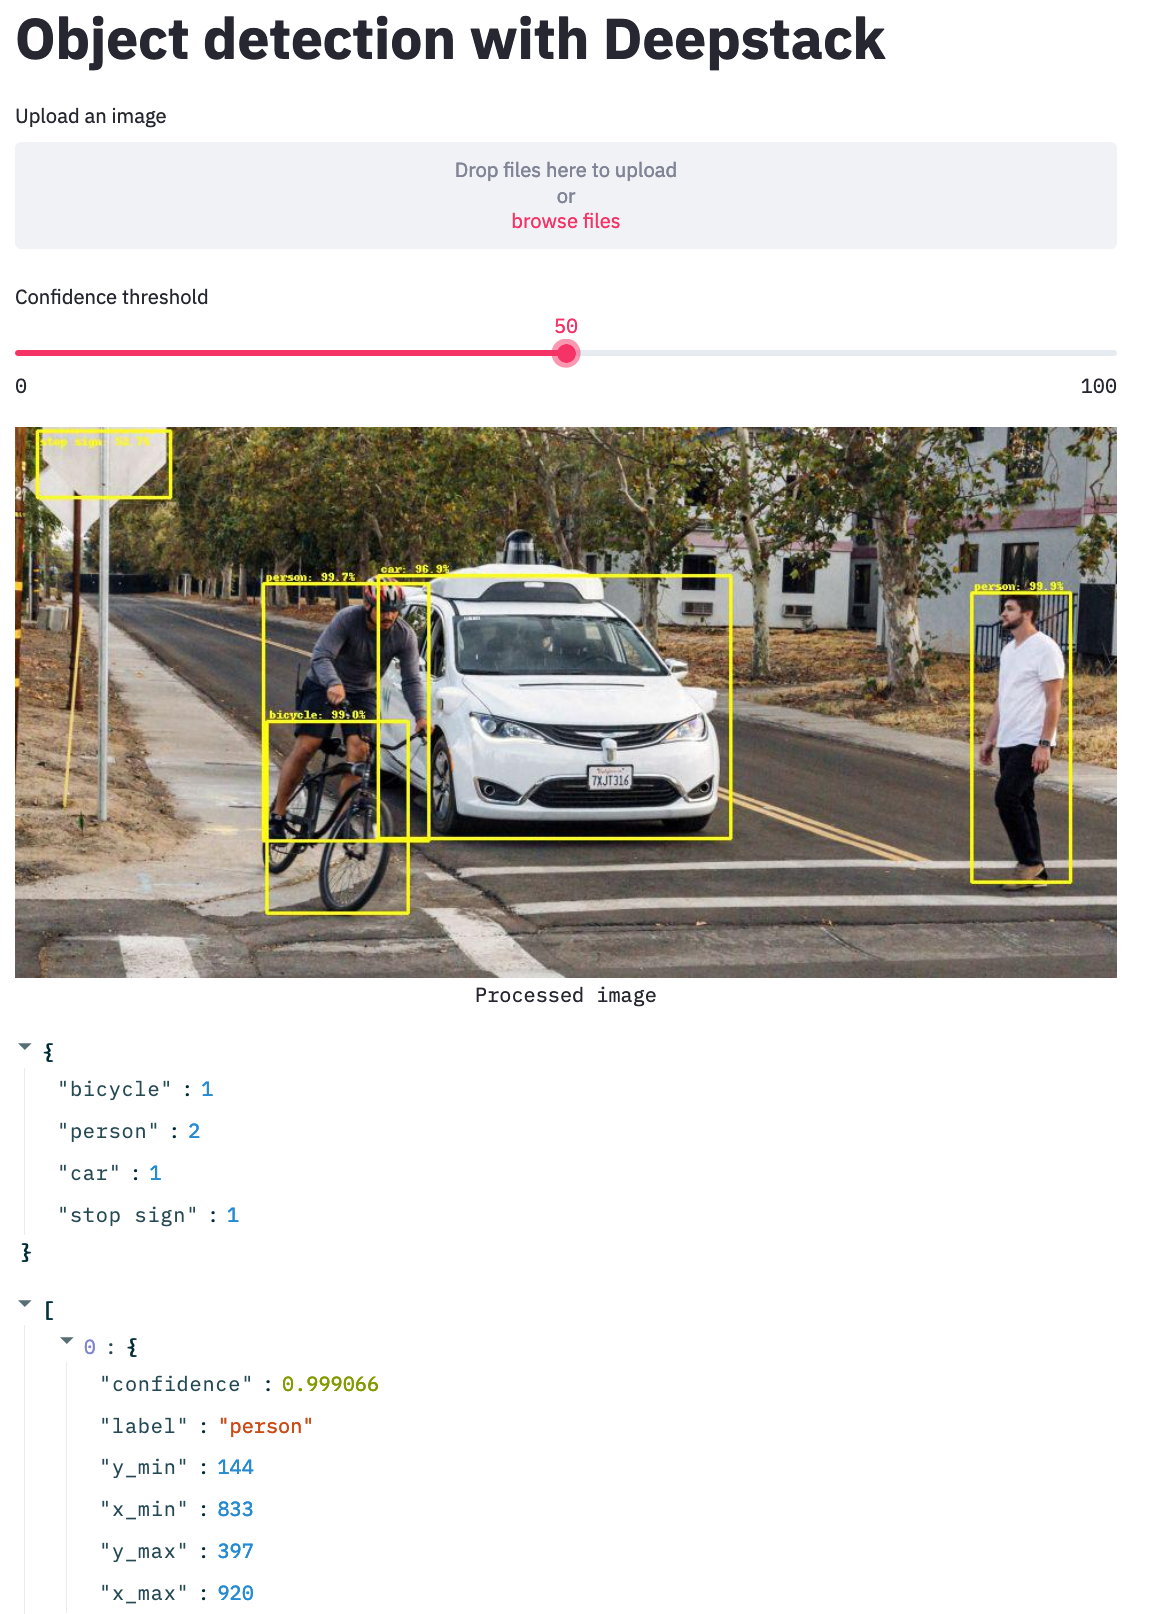
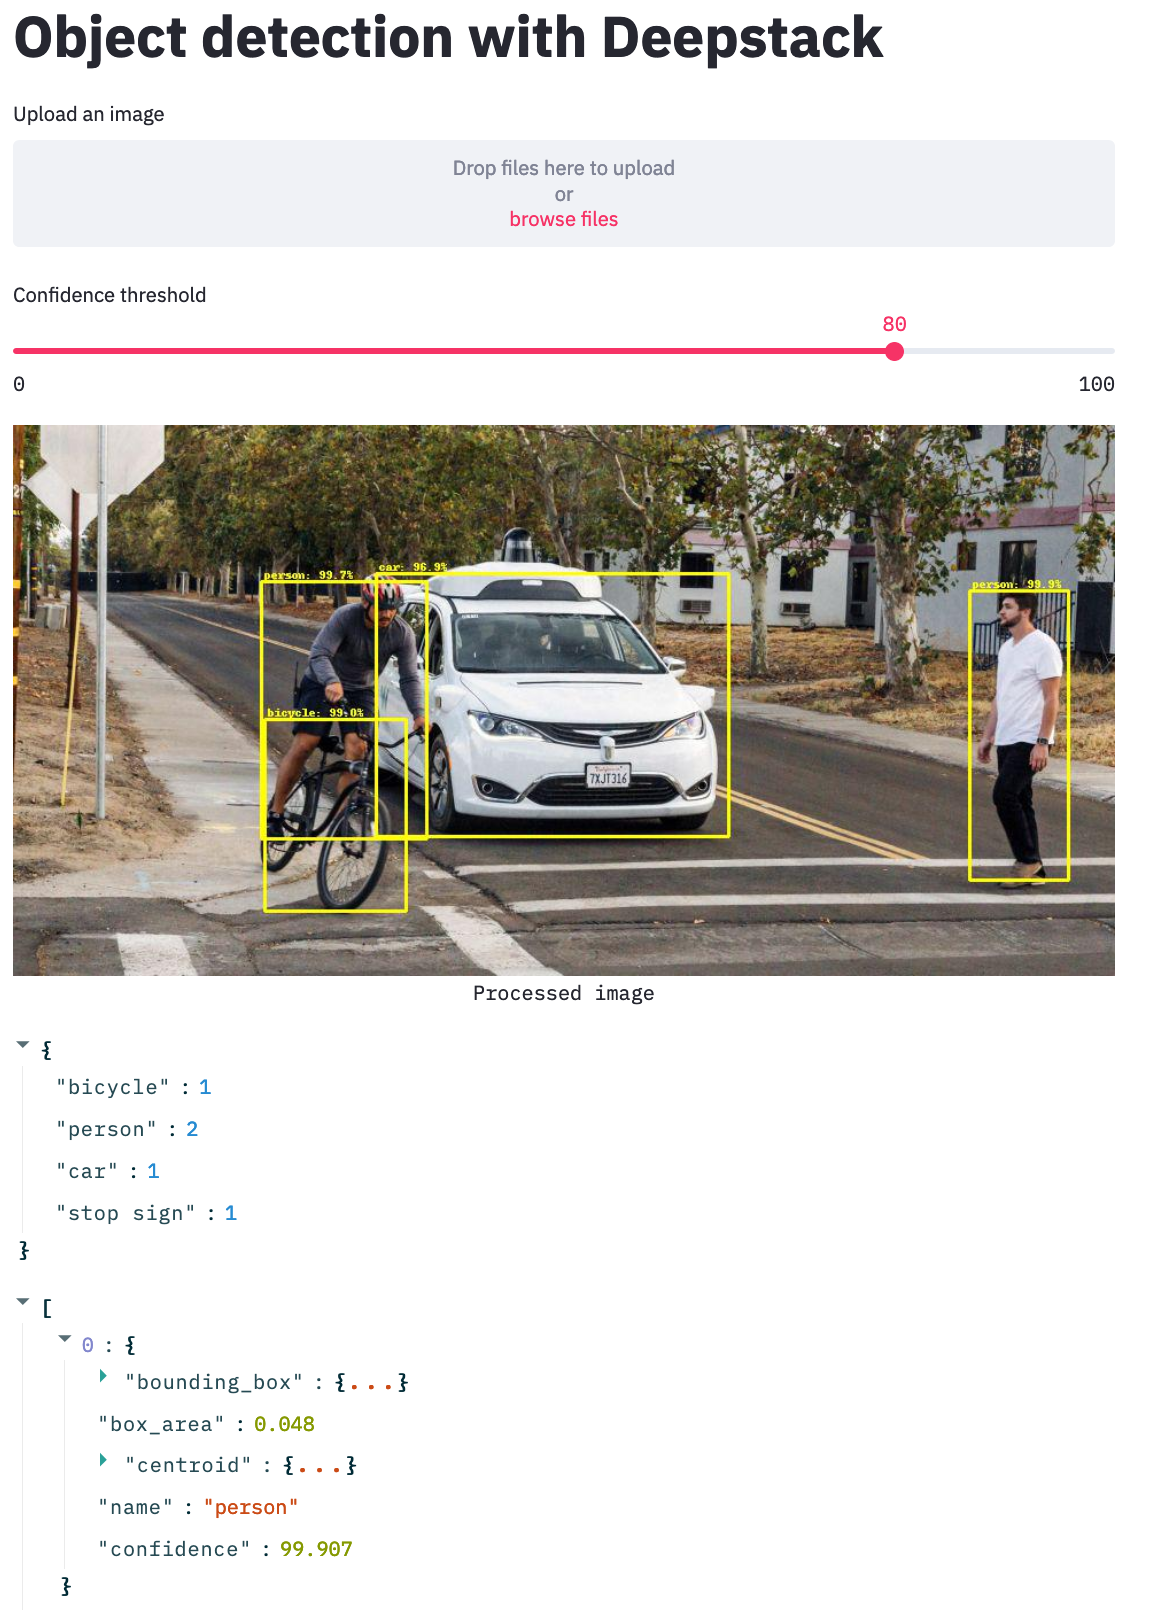
show objects

diff --git a/streamlit-ui.py b/streamlit-ui.py
@@ -76,4 +76,4 @@ st.image(
     np.array(pil_image), caption=f"Processed image", use_column_width=True,
 )
 st.write(summary)
-st.write(predictions)
+st.write(objects)
